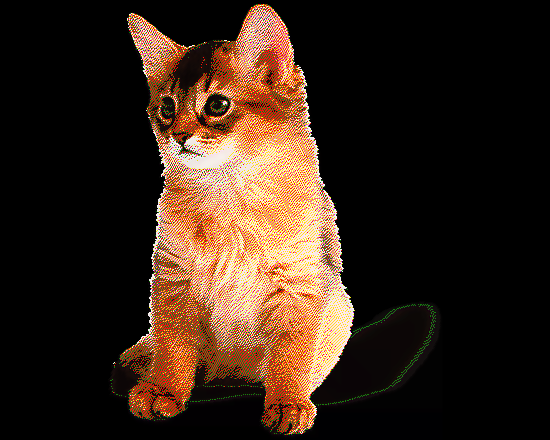
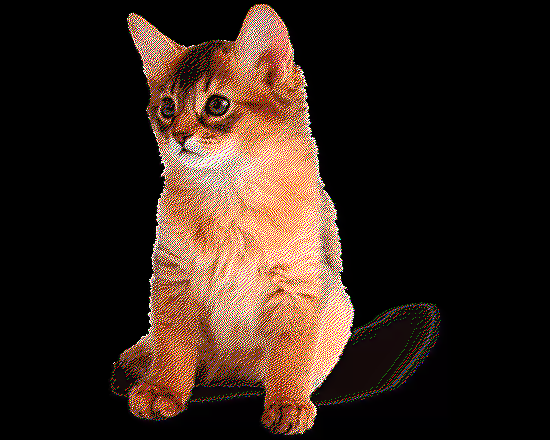
Docs: Complete documentation

Changed region(s): [[0.1855, 0.0, 0.68, 1.0], [0.68, 0.6795, 0.8036, 0.8864], [0.6182, 0.8864, 0.68, 0.9159]]

diff --git a/README.md b/README.md
@@ -1,6 +1,58 @@
 # Ditherpunk
 
-## Question 2
+Ce projet est un outil de traitement d'images qui applique divers algorithmes de dithering et de diffusion d'erreurs pour convertir des images en versions avec moins de couleurs, tout en conservant l'apparence visuelle aussi proche que possible de l'original.
+
+## Fonctionnalités
+
+- **Alternance de pixels blancs** : Alterne les pixels blancs dans l'image.
+- **Seuil** : Convertit l'image en noir et blanc en utilisant un seuil spécifié.
+- **Palette** : Réduit l'image à une palette de couleurs spécifiée.
+- **Dithering** : Applique un algorithme de dithering basique.
+- **Dithering ordonné** : Applique un algorithme de dithering ordonné avec une matrice spécifiée.
+- **Diffusion d'erreurs** : Applique des algorithmes de diffusion d'erreurs tels que Floyd-Steinberg, Jarvis-Judice-Ninke et Atkinson.
+
+## Installation
+Clonez le dépôt et compilez le projet en utilisant Cargo :
+```bash
+git clone https://github.com/MelchorRuiz/Ditherpunk.git
+cd Ditherpunk
+cargo build --release
+```
+
+## Utilisation
+Le programme s'exécute depuis la ligne de commande et accepte plusieurs modes de fonctionnement, chacun avec ses propres paramètres.
+
+### Exemple d'utilisation
+
+```bash
+# Alternance de pixels blancs
+./target/release/Ditherpunk input.png white_pixel_alternation 
+# Seuil
+./target/release/Ditherpunk input.png seuillage --couleur-claire white --couleur-foncee black
+# Palette
+./target/release/Ditherpunk input.png palette -n 8
+# Dithering
+./target/release/Ditherpunk input.png tramage 
+# Dithering ordonné
+./target/release/Ditherpunk input.png tramage-ordonne -n 1
+# Diffusion d'erreurs
+./target/release/Ditherpunk input.png diffusion-erreur --algorithme floyd_steinberg
+```
+
+### Exemples de Résultats
+
+| Algorithme | Avant | Après | 
+| :-: | :-: | :-: |
+| alternance-pixels-blancs | ![avant](./img/gato.png) | ![apres](./img/gato_rgb_white.png) |
+| seuillage | ![avant](./img/gato.png) | ![apres](./img/gato_rgb_dithering.png) |
+| palette | ![avant](./img/gato.png) | ![apres](./img/gato_rgb_pallet.png) |
+| tramage | ![avant](./img/gato.png) | ![apres](./img/gato_rgb_thresholding.png) |
+| tramage-ordonne | ![avant](./img/gato.png) | ![apres](./img/gato_rgb_ordered_dithering.png) |
+| diffusion-erreur | ![avant](./img/gato.png) | ![apres](./img/gato_rgb_error_diffusion.png) |
+
+## Questions
+
+### Question 2
 
 **On obtient un DynamicImage, à quoi correspond ce type?**<br>
 Rgba8
@@ -8,7 +60,7 @@ Rgba8
 **Comment obtenir une image en mode rbg8 à partir de ce DynamicImage?**<br>
 ```img.to_rgb8();```
 
-## Question 3
+### Question 3
 **Que se passe-t-il si l’image de départ avait un canal alpha?**<br>
 Tous les pixels transparents deviennent noirs, comme le montre l'exemple suivant
 
@@ -16,7 +68,7 @@ Tous les pixels transparents deviennent noirs, comme le montre l'exemple suivant
 | :-: | :-: |
 | ![avant](./img/gato.png) | ![apres](./img/gato_rgb.png) |
 
-## Question 9
+### Question 9
 **Comment calculer la distance entre deux couleurs?**<br>
 J'ai utilisé une méthode mathématique qui mesure la différence entre les deux couleurs dans l'espace colorimétrique tridimensionnel, appelée **distance euclidienne**.
 
@@ -29,10 +81,10 @@ Alors, la distance \( D \) entre ces deux couleurs est donnée par :
 
 D = √ (R_2 - R_1)^2 + (G_2 - G_1)^2 + (B_2 - B_1)^2
 
-## Question 11
-**comportement avec une palette vide**<br>
+### Question 11
+**Comportement avec une palette vide**<br>
 Le programme renvoie une erreur si le nombre de couleurs à utiliser est inférieur ou égal à 0 ou s'il est supérieur à 8.
 
-## Question 17
-**comment l'erreur commise dans chaque pixel est représentée et distribuée.**<br>
-Pour un pixel RGB ( c_original = (r, g, b) ), l'erreur est ( e(x, y) = (r - r_q, g - g_q, b - b_q) ), où ( c_quantifié ) est la couleur quantifiée. Cette erreur est diffusée aux pixels voisins selon une matrice (ex. Floyd-Steinberg), ajustant leurs valeurs avant quantification pour un rendu plus fidèle.
+### Question 17
+**Comment l'erreur commise dans chaque pixel est représentée et distribuée.**<br>
+Pour un pixel RGB ( c_original = (r, g, b) ), l'erreur est ( e(x, y) = (r - r_q, g - g_q, b - b_q) ), où ( c_quantifié v) est la couleur quantifiée. Cette erreur est diffusée aux pixels voisins selon une matrice (ex. Floyd-Steinberg), ajustant leurs valeurs avant quantification pour un rendu plus fidèle.
